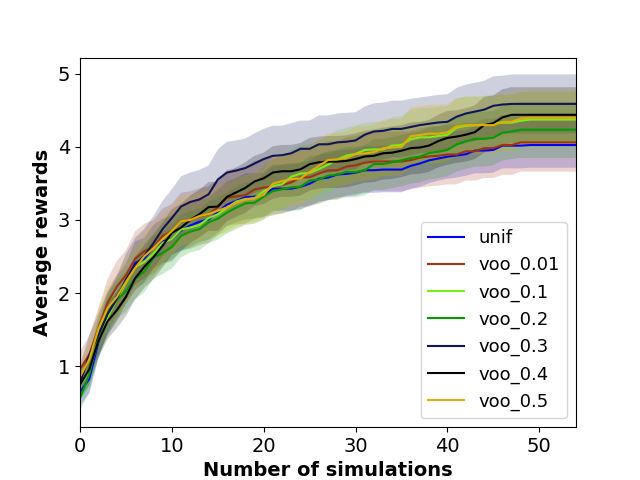
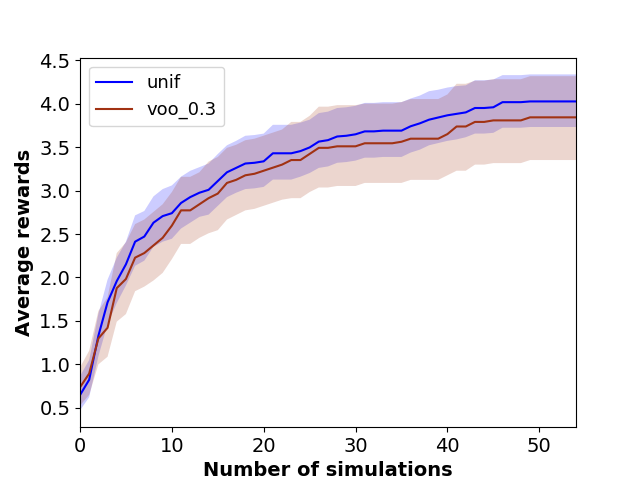
3

diff --git a/generators/gpucb.py b/generators/gpucb.py
@@ -7,7 +7,7 @@ from utils import pick_parameter_distance, place_parameter_distance
 from planners.mcts_utils import make_action_executable
 
 
-class VOOGenerator(Generator):
+class GPUCBGenerator(Generator):
     def __init__(self, operator_name, problem_env, explr_p):
         Generator.__init__(self, operator_name, problem_env)
         self.explr_p = explr_p
@@ -46,9 +46,9 @@ class VOOGenerator(Generator):
             if status == 'HasSolution':
                 print "Found feasible sample"
                 break
-            #else:
-            #    self.evaled_actions.append(action_parameters)
-            #    self.evaled_q_values.append(self.problem_env.infeasible_reward)
+            else:
+                self.evaled_actions.append(action_parameters)
+                self.evaled_q_values.append(self.problem_env.infeasible_reward)
 
         return action
 
@@ -74,7 +74,7 @@ class VOOGenerator(Generator):
         other_actions = self.evaled_actions
 
         while np.any(best_dist > other_dists):
-            #print "Gaussian place sampling, counter", counter
+            print "Gaussian place sampling, counter", counter
             variance = (self.domain[1] - self.domain[0]) / counter
             new_parameters = np.random.normal(best_evaled_action, variance)
 
@@ -100,7 +100,7 @@ class VOOGenerator(Generator):
         '''
 
         while np.any(best_dist > other_dists):
-            #print "Gaussian pick sampling, counter", counter
+            print "Gaussian pick sampling, counter", counter
             best_ir_parameters = best_evaled_action[3:]
 
             var_ir = np.array([0.3, 30*np.pi/180., 10*np.pi/180]) / float(counter)

diff --git a/plotters/plot_planners.py b/plotters/plot_planners.py
@@ -197,7 +197,8 @@ def plot_across_algorithms():
     if args.domain == 'namo':
         algo_names = ['unif', 'voo_0.1', 'voo_0.2', 'voo_0.3']
     else:
-        algo_names = ['unif', 'voo_0.01', 'voo_0.1', 'voo_0.2', 'voo_0.3', 'voo_0.4', 'voo_0.5']
+        #algo_names = ['unif', 'voo_0.01', 'voo_0.1', 'voo_0.2', 'voo_0.3', 'voo_0.4', 'voo_0.5']
+        algo_names = ['unif', 'voo_0.3']
 
     color_dict = pickle.load(open('./plotters/color_dict.p', 'r'))
     color_names = color_dict.keys()[1:]
